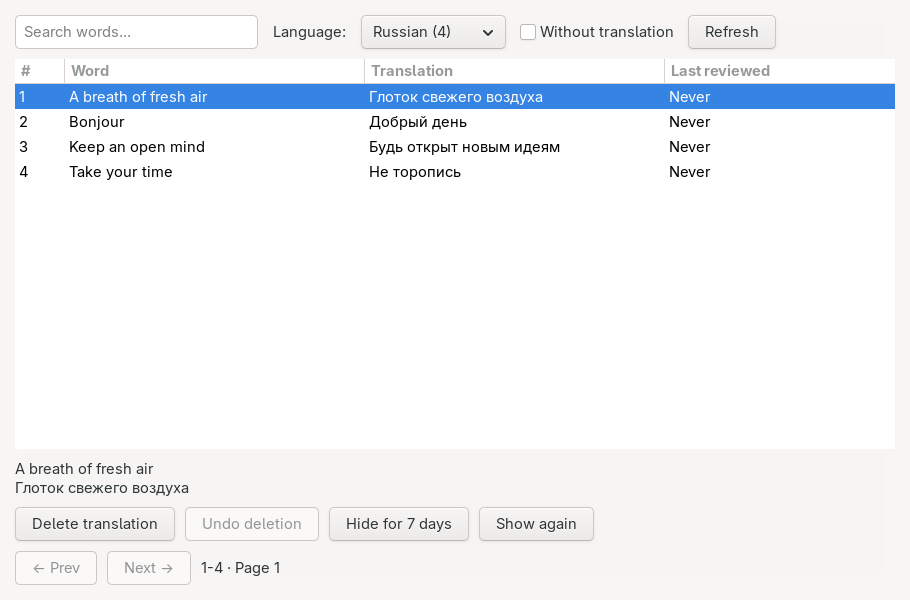
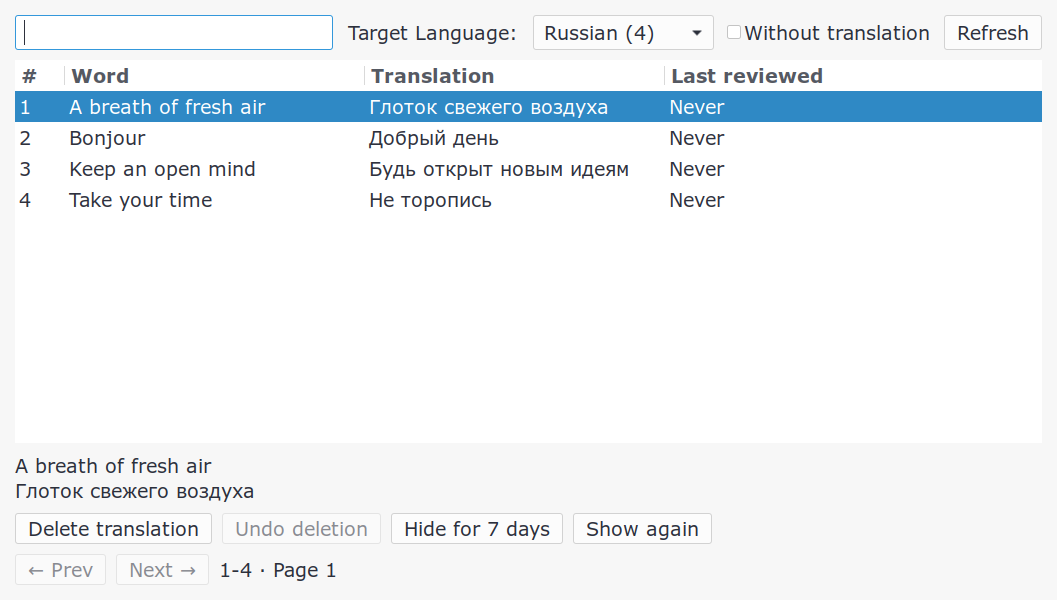
Refresh tray and notification screenshots and clarify target language filter

diff --git a/src/windows/word_browser.py b/src/windows/word_browser.py
@@ -62,7 +62,7 @@ class WordBrowserWindow(BaseWindow):
         toolbar.pack_start(self.search_entry, False, False, 0)
 
         # Language filter
-        toolbar.pack_start(Gtk.Label(label="Language:"), False, False, 5)
+        toolbar.pack_start(Gtk.Label(label="Target Language:"), False, False, 5)
 
         self.lang_combo = Gtk.ComboBoxText()
         settings = self.vocab_service.get_settings()

diff --git a/README.md b/README.md
@@ -24,8 +24,8 @@ A lightweight vocabulary learning app with system tray and spaced repetition. Su
 
 Window contents below use demo vocabulary; decorations and theme depend on your desktop.
 
-### Popup Notification
-![Popup](docs/screenshot-popup.png)
+### System Tray Menu
+![Current system tray menu](docs/screenshot-popup.png)
 
 ### Add Word Dialog
 ![Add Word](docs/screenshot-add-word.png)
@@ -40,7 +40,7 @@ Window contents below use demo vocabulary; decorations and theme depend on your 
 ![Word Browser](docs/screenshot-word-browser.png)
 
 ### Popup Translation Message
-![Stats](docs/screenshot-message.png)
+![Word notification with translation](docs/screenshot-message.png)
 
 ## GUI App (Recommended)
 
